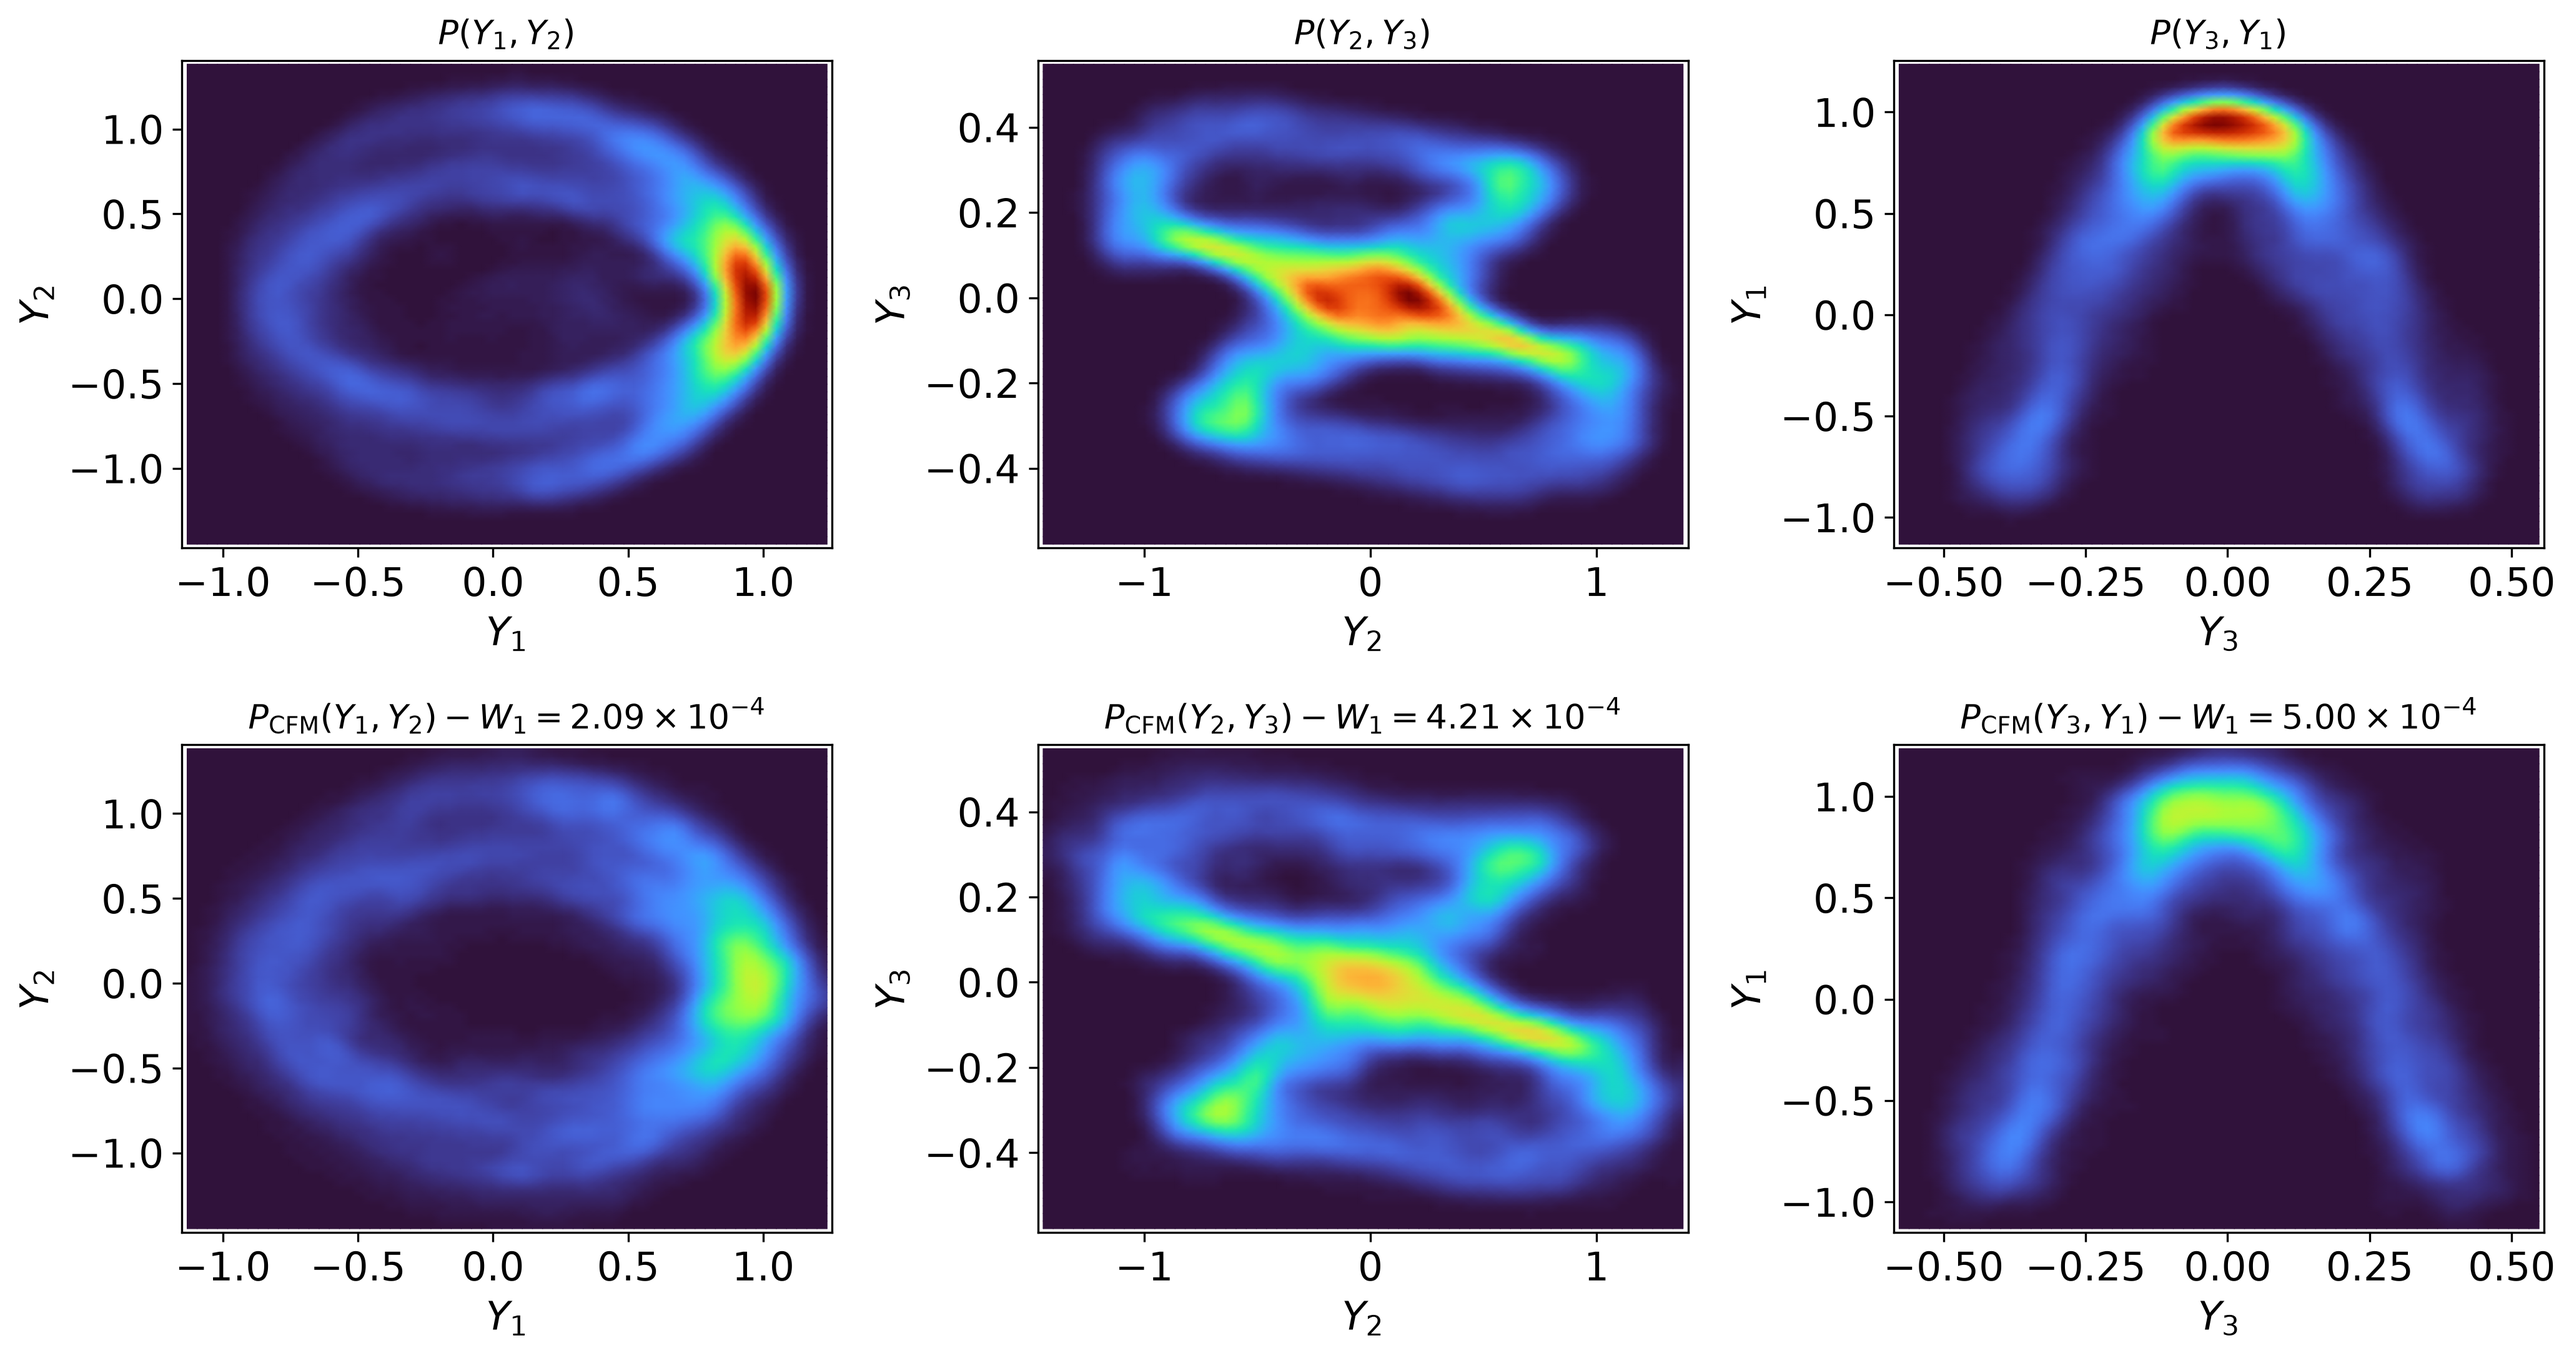
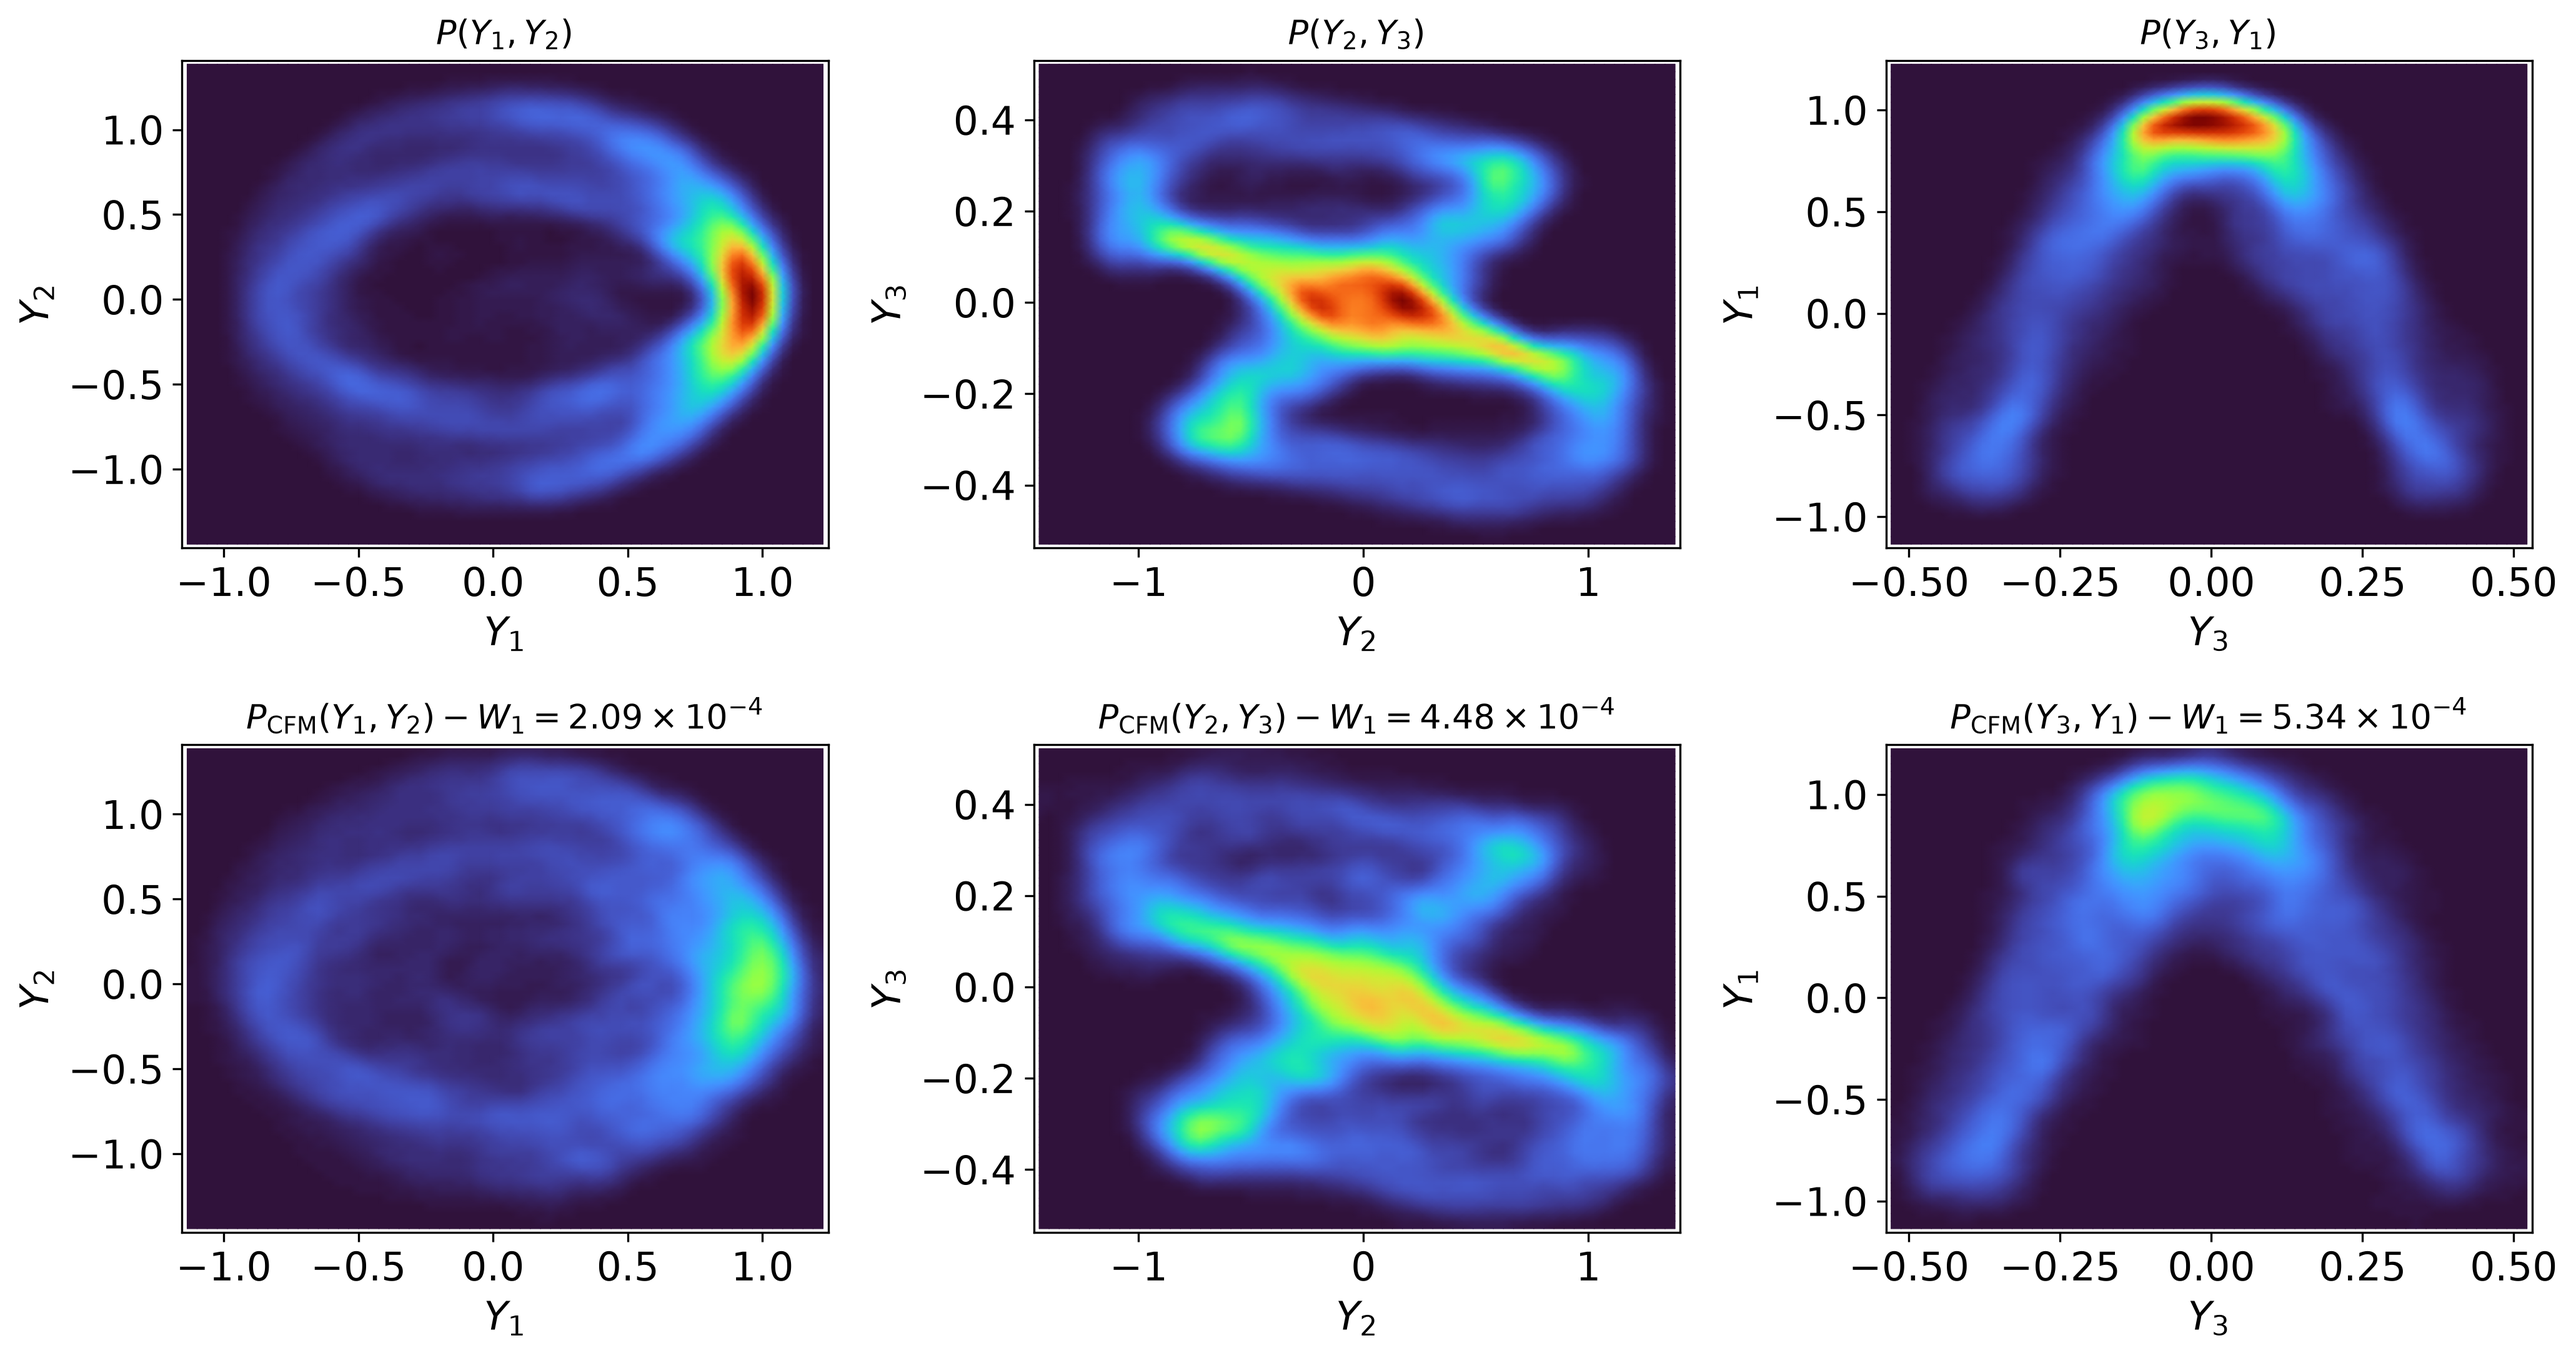
fix: div enhancing sampling new plots and results

diff --git a/media/div_enh_sampling/config.py b/media/div_enh_sampling/config.py
@@ -1,0 +1,26 @@
+import torch
+
+# GENERAL PARAMETERS
+data_path = "data/NN_training_data.mat"
+device = torch.device("cuda" if torch.cuda.is_available() else "cpu")
+
+# DATALOAD PARAMETERS
+idx_0 = 100000
+N_train = 5000000
+N_test = 100000
+
+# CFM PARAMETERS
+K = 100           # Total memory points
+stride = 50       # Memory stride
+cfm_steps = 4    # CFM Flow inference steps
+hidden_dim = 256   # CFM Hidden layer dimension
+
+# TRAINING PARAMETERS
+lr=1e-3
+epochs = 20
+batch_size = 1024
+
+# A POSTERIORI SIMULATION PARAMETERS
+dt = 4.2e-3 # 4.2e-3 MTU = 45 sec
+N_ens = 50
+sigma0 = 1e-3

diff --git a/run.py b/run.py
@@ -71,7 +71,7 @@ def run():
         for step in range(N_test):
             Y_cond = hist_buffer[:, ::stride, :].reshape(N_ens, 3 * K)
             
-            CFM_pred = cfm.div_enhacing_sample(Y_cond, N_noise=32, N_steps=4, alpha=0.1, length_scale=1.25)
+            CFM_pred = cfm.div_enhacing_sample(Y_cond, N_noise=32, alpha=0.1, length_scale=1.25)
             X_pred_norm, Z_pred_norm, parent_idxs = CFM_pred
             
             Y_pred = Y_pred[parent_idxs] + 1e-3 * torch.randn_like(Y_pred)
